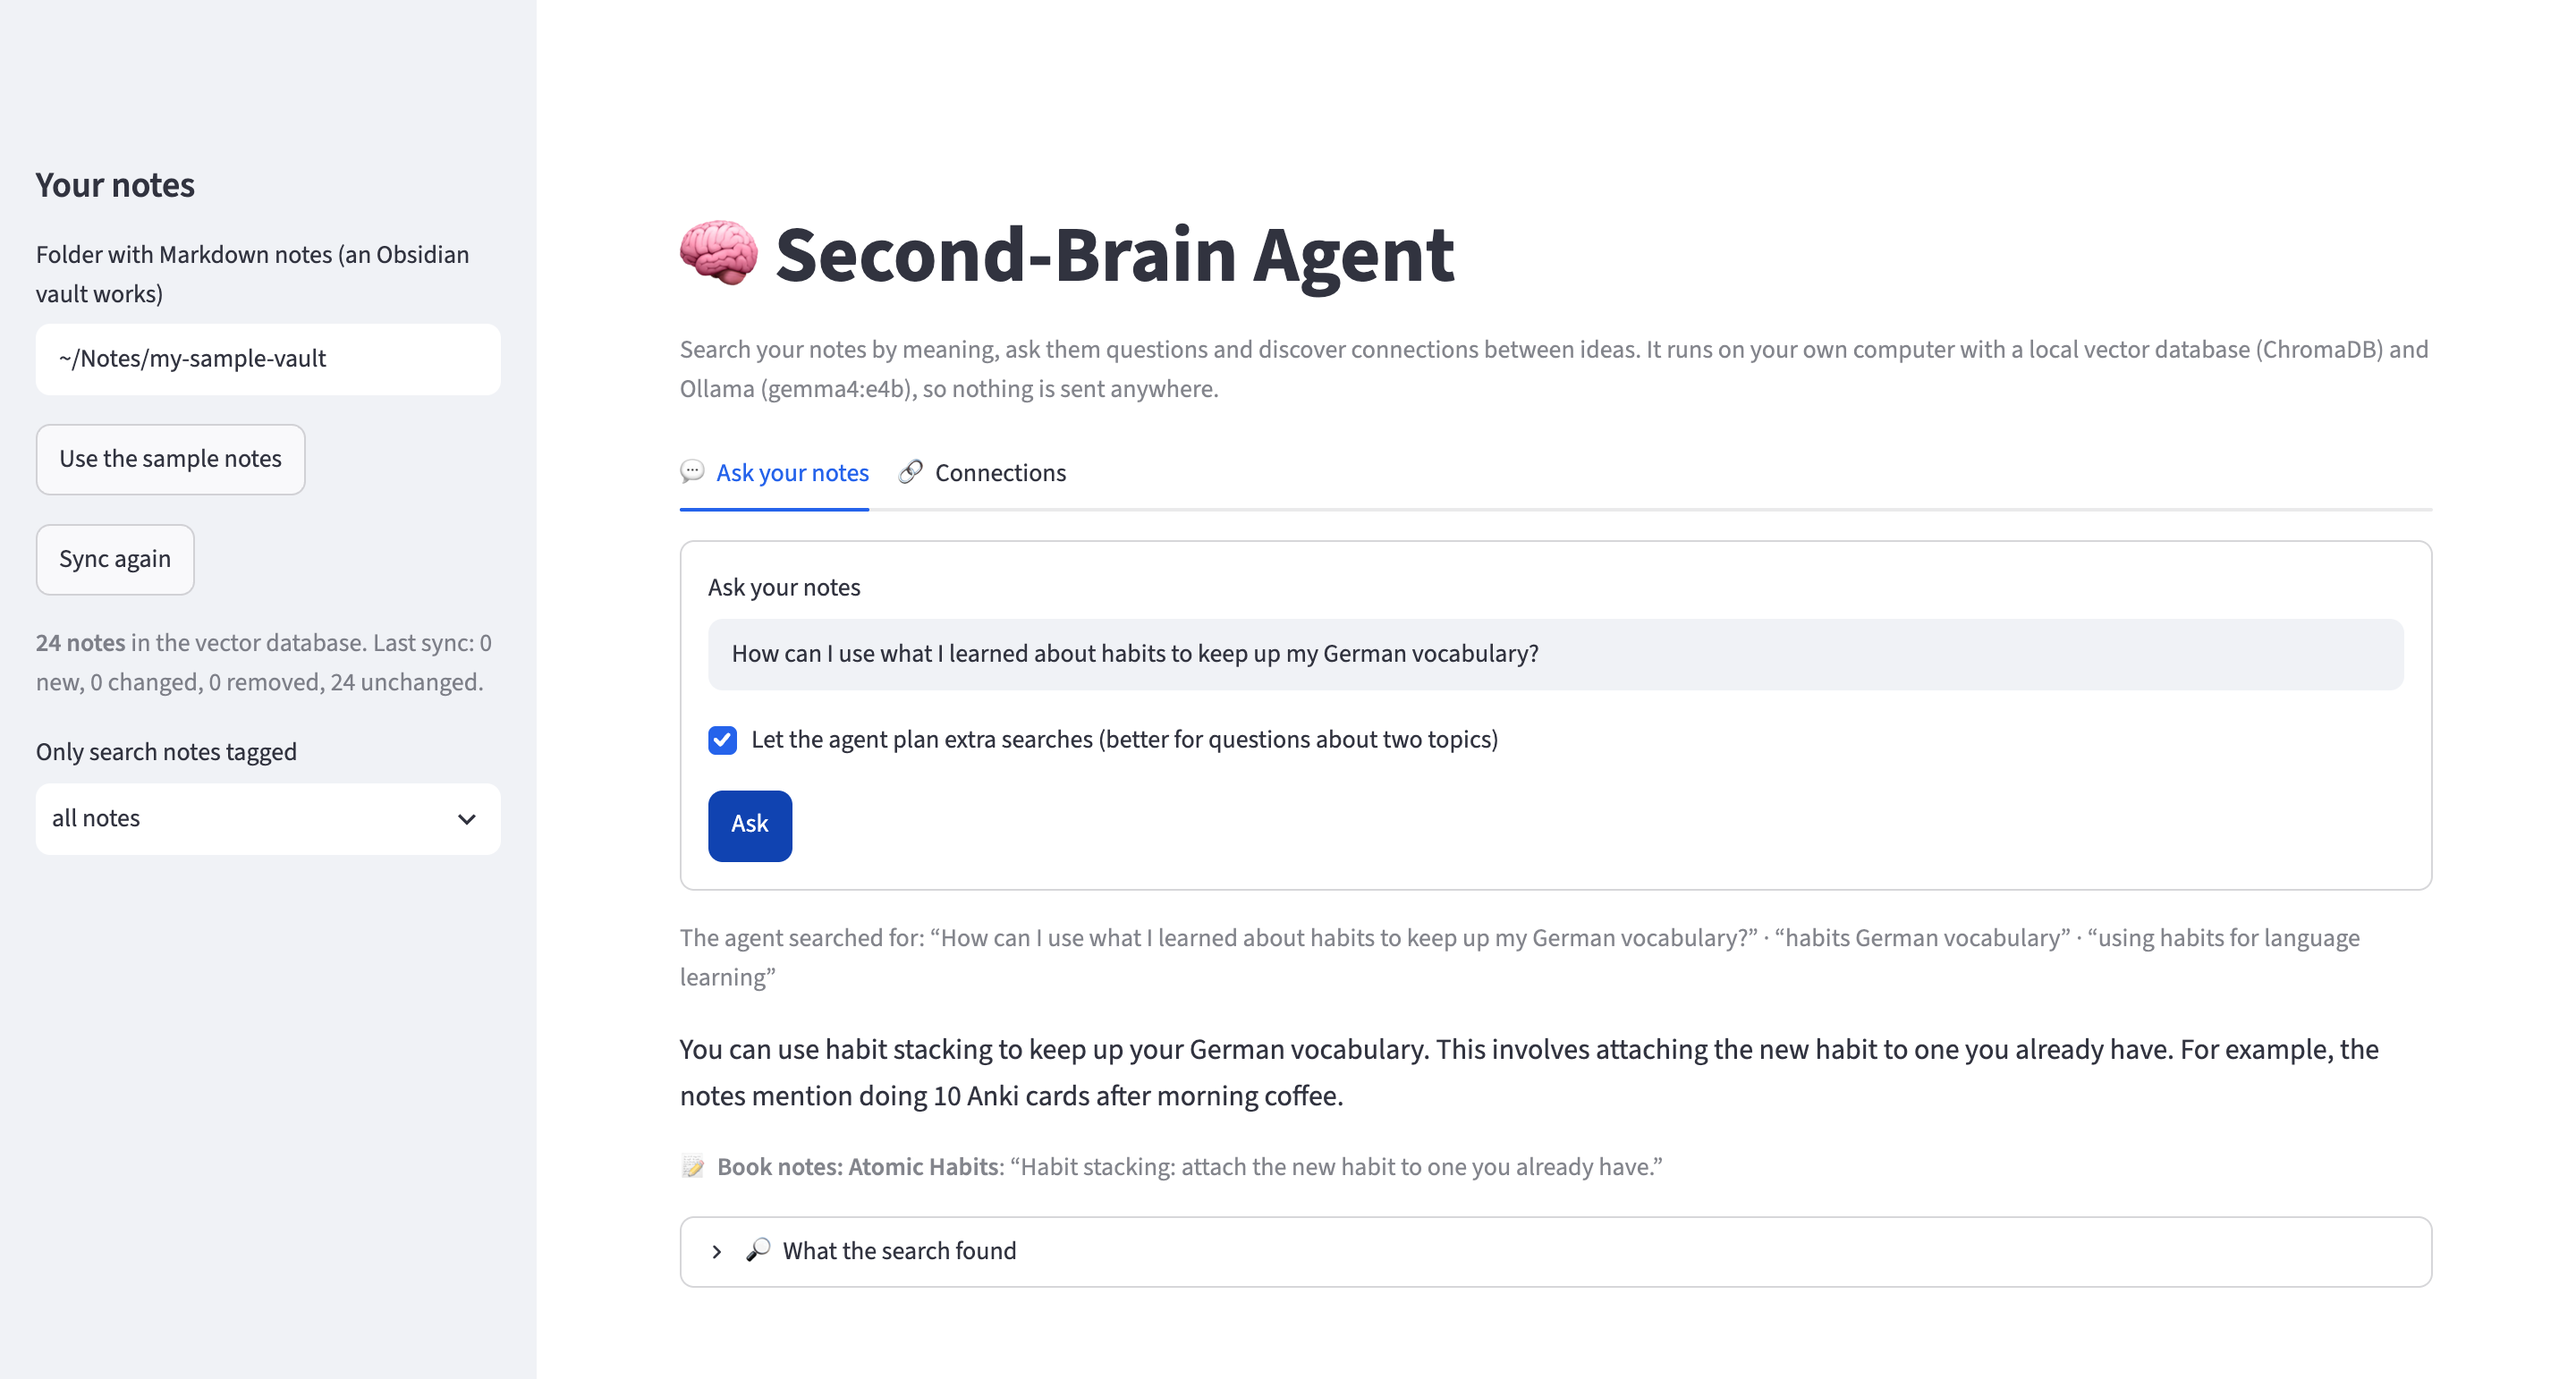
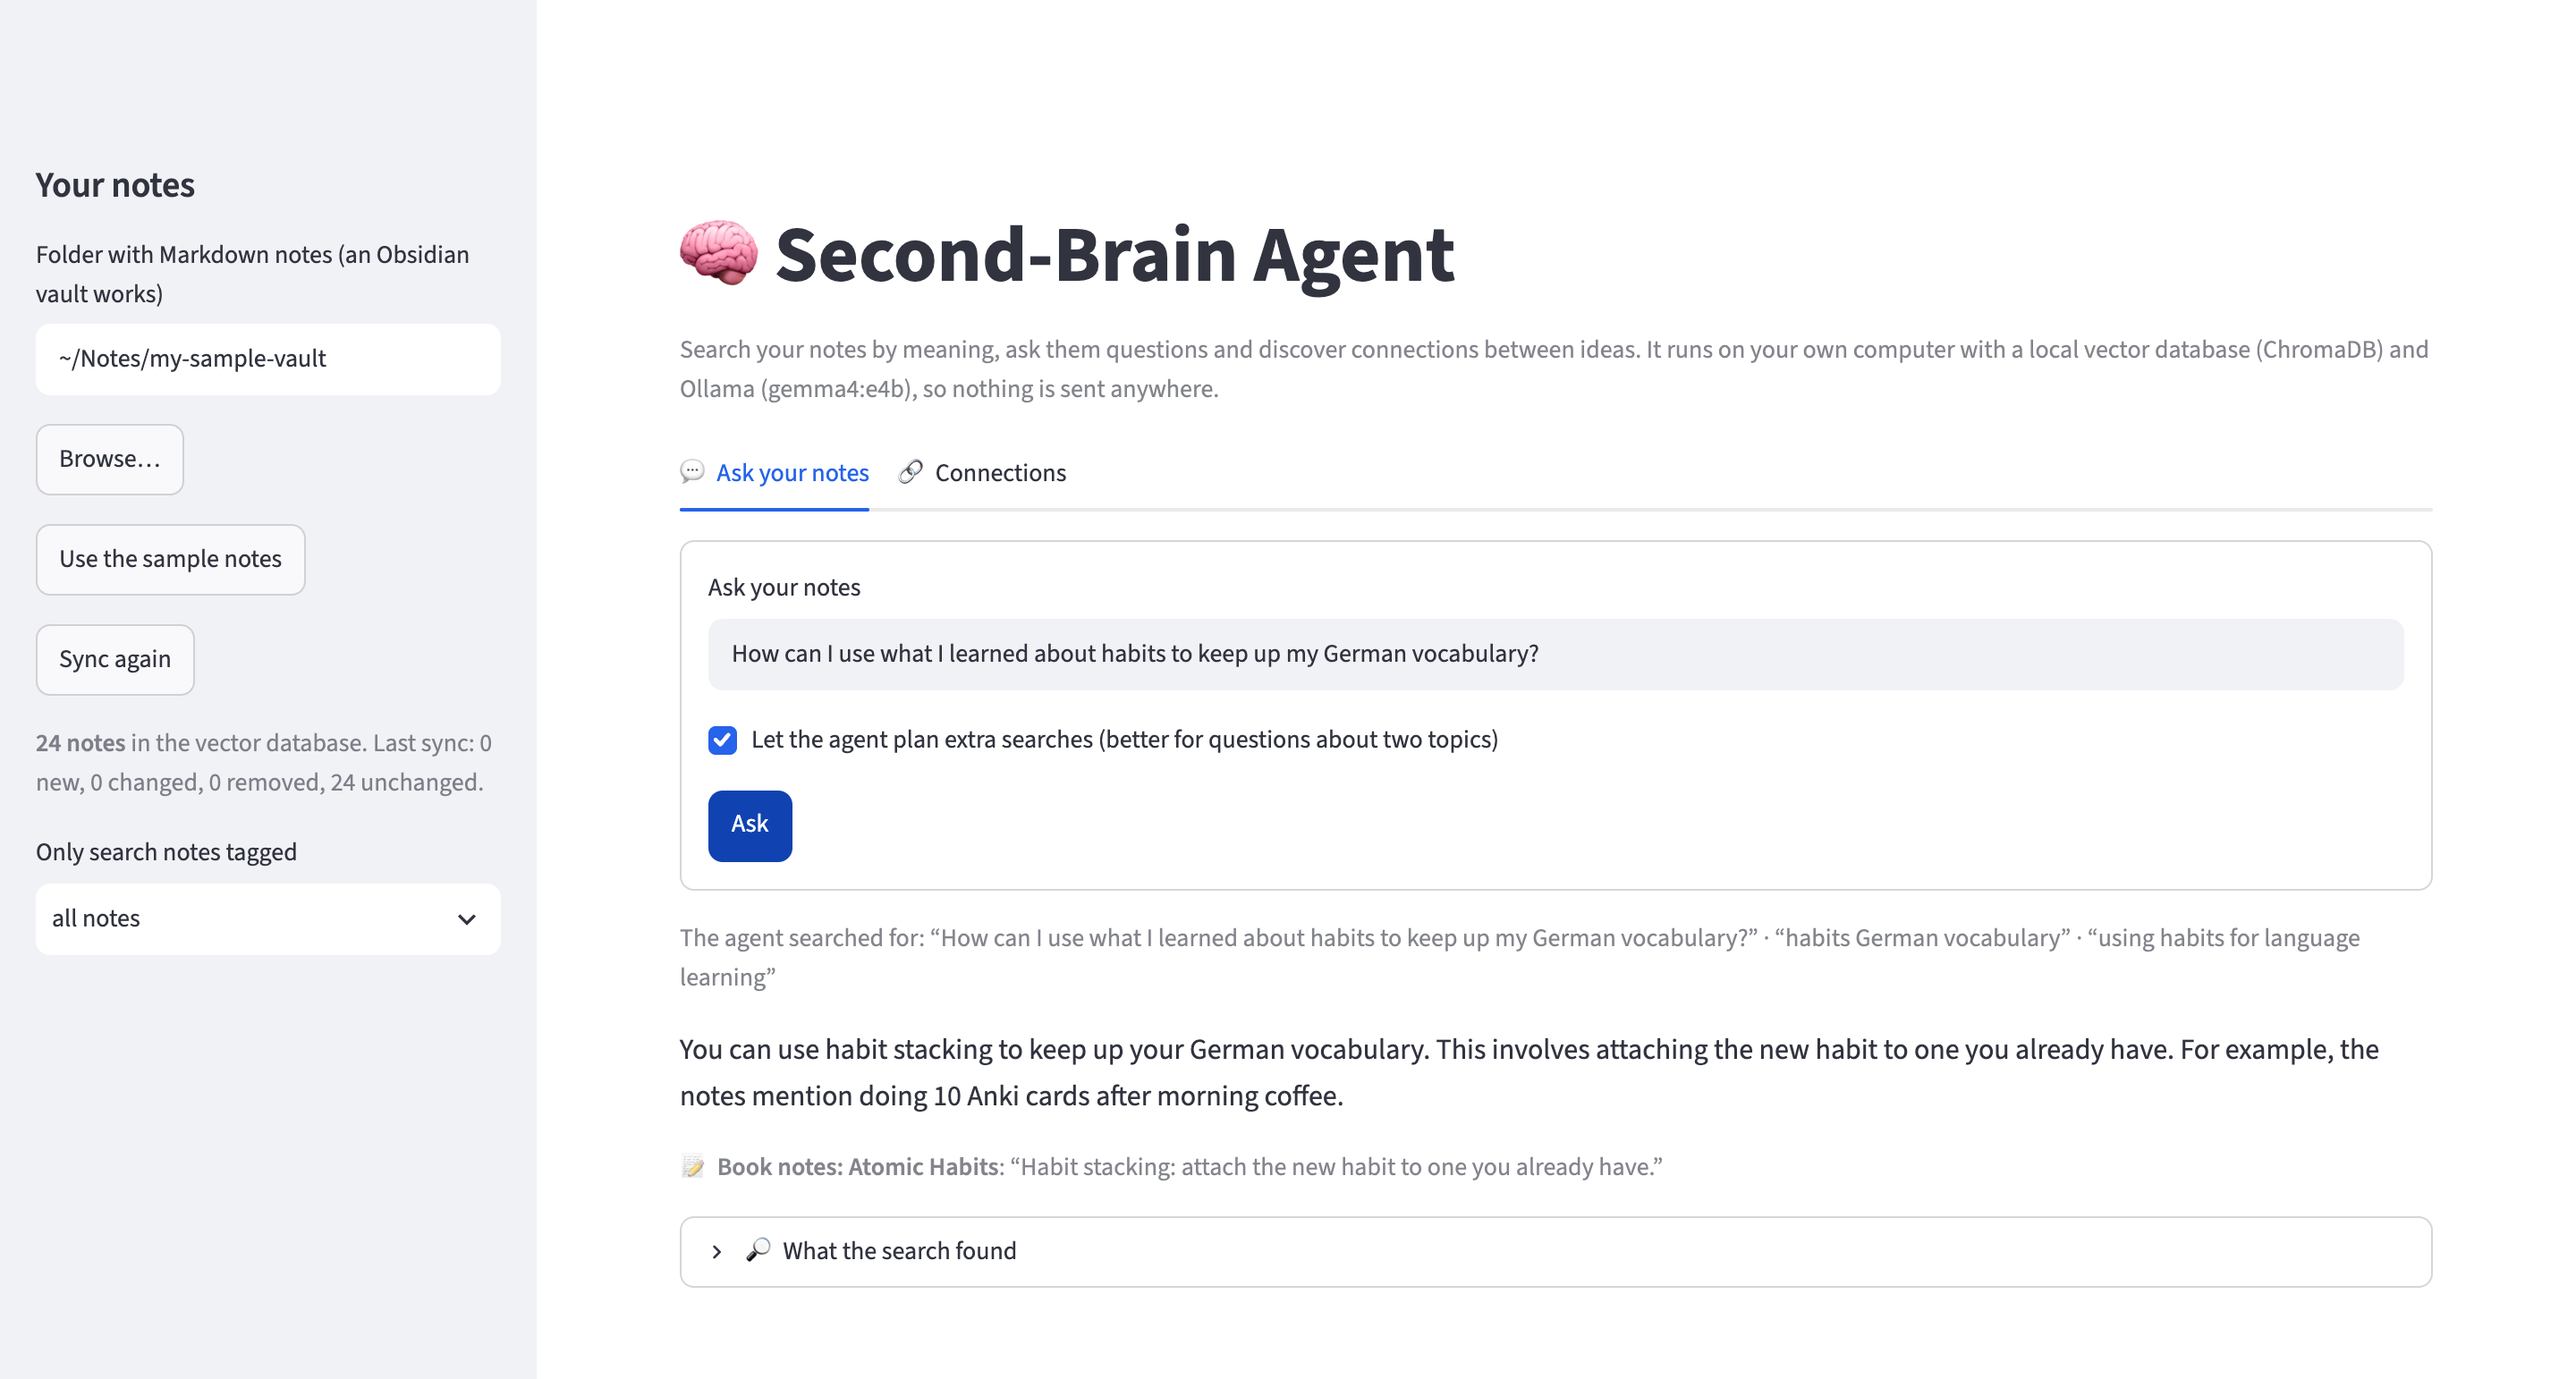
Add a Browse… folder picker to the Second-Brain Agent (project 06)
The notes folder no longer has to be typed: Browse… opens the computer's
own folder window (the Mac's Choose Folder window, Tk's on Windows and
Linux) and fills in the path. Cancel changes nothing, and a problem asks
you to type the path instead. It picks a folder, not uploaded copies,
because the agent adds [[links]] to your real notes.

6 new fast tests (36 in total), new README screenshots taken with the
real app and model, and the README updated to match.

diff --git a/projects/06-second-brain/tests/test_brain.py b/projects/06-second-brain/tests/test_brain.py
@@ -8,6 +8,7 @@ The real models are tested separately by evaluate.py.
 import hashlib
 import json
 import shutil
+import subprocess
 import sys
 from pathlib import Path
 from types import SimpleNamespace
@@ -114,6 +115,53 @@ def test_vault_reading_skips_hidden_folders_and_other_files(vault):
 def test_missing_folder():
     with pytest.raises(brain.BrainError, match="doesn't exist"):
         brain.read_vault("/no/such/folder")
+
+
+def fake_window(monkeypatch, returncode=0, stdout="", stderr="", error=None):
+    """Stands in for the computer's folder window: records the command, gives back a prepared result."""
+    calls = []
+
+    def run(command, **kwargs):
+        calls.append(command)
+        if error:
+            raise error
+        return subprocess.CompletedProcess(command, returncode, stdout, stderr)
+    monkeypatch.setattr(brain.subprocess, "run", run)
+    return calls
+
+
+def test_browse_on_a_mac_opens_the_folder_window_where_you_are(monkeypatch, vault):
+    monkeypatch.setattr(brain.sys, "platform", "darwin")
+    calls = fake_window(monkeypatch, stdout="/Users/me/Notes/\n")
+    assert brain.pick_folder(vault) == "/Users/me/Notes"
+    assert calls[0][0] == "osascript" and calls[0][-1] == str(vault)
+
+
+def test_browse_cancel_and_problems(monkeypatch):
+    monkeypatch.setattr(brain.sys, "platform", "darwin")
+    calls = fake_window(monkeypatch, returncode=1, stderr="execution error: User canceled. (-128)")
+    assert brain.pick_folder("/no/such/folder") is None
+    assert calls[0][-1] == str(Path.home())  # a folder that doesn't exist starts the window at home
+    fake_window(monkeypatch, returncode=1, stderr="Not authorised to send Apple events.")
+    with pytest.raises(brain.BrainError, match="Type the folder's path instead"):
+        brain.pick_folder()
+    fake_window(monkeypatch, error=FileNotFoundError("osascript"))
+    with pytest.raises(brain.BrainError, match="couldn't be opened"):
+        brain.pick_folder()
+
+
+def test_browse_on_windows_and_linux_uses_tk_in_its_own_process(monkeypatch):
+    monkeypatch.setattr(brain.sys, "platform", "linux")
+    calls = fake_window(monkeypatch, stdout="\n")  # Tk prints an empty line when you cancel
+    assert brain.pick_folder() is None
+    assert calls[0][:2] == [sys.executable, "-c"] and "askdirectory" in calls[0][2]
+
+
+@pytest.mark.skipif(not shutil.which("osacompile"), reason="needs macOS")
+def test_the_mac_folder_window_script_is_valid_applescript(tmp_path):
+    lines = [a for line in brain.MAC_PICKER for a in ("-e", line)]
+    done = subprocess.run(["osacompile", "-o", str(tmp_path / "picker.scpt"), *lines], capture_output=True, text=True)
+    assert done.returncode == 0, done.stderr
 
 
 def test_short_notes_stay_whole_and_long_ones_are_cut():

diff --git a/projects/06-second-brain/brain.py b/projects/06-second-brain/brain.py
@@ -25,6 +25,7 @@ import argparse
 import hashlib
 import os
 import re
+import subprocess
 import sys
 import unicodedata
 from dataclasses import dataclass, field
@@ -135,6 +136,38 @@ def read_vault(folder):
         if file.suffix.lower() in NOTE_TYPES and file.is_file() and not any(p.startswith(".") for p in relative.parts):
             notes[relative.as_posix()] = parse_note(relative.as_posix(), file.read_text(errors="replace"))
     return notes
+
+
+FOLDER_PROMPT = "Choose the folder with your notes"
+MAC_PICKER = ["on run argv", "activate",  # activate brings the window in front of the browser
+              f'POSIX path of (choose folder with prompt "{FOLDER_PROMPT}" default location (POSIX file (item 1 of argv)))',
+              "end run"]
+TK_PICKER = f"""import sys, tkinter, tkinter.filedialog
+root = tkinter.Tk(); root.withdraw(); root.attributes("-topmost", True)
+print(tkinter.filedialog.askdirectory(initialdir=sys.argv[1], title="{FOLDER_PROMPT}", mustexist=True))"""
+
+
+def pick_folder(start=None):
+    """Open the computer's own "choose a folder" window. Returns the folder, or None if you cancel.
+    The web page only runs on this computer (server.address = localhost), so the window opens on your screen."""
+    start = Path(start).expanduser() if start else Path.home()
+    if not start.is_dir():
+        start = Path.home()
+    if sys.platform == "darwin":
+        command = ["osascript", *(a for line in MAC_PICKER for a in ("-e", line)), str(start)]
+    else:  # Windows and Linux: Tk's folder window, in its own process because Tk must run on a main thread
+        command = [sys.executable, "-c", TK_PICKER, str(start)]
+    problem = "Your computer's folder window couldn't be opened. Type the folder's path instead."
+    try:
+        done = subprocess.run(command, capture_output=True, text=True)
+    except OSError as e:
+        raise BrainError(problem) from e
+    if done.returncode != 0:
+        if "-128" in done.stderr:  # macOS: you clicked Cancel
+            return None
+        raise BrainError(f"{problem}\n\n{done.stderr.strip()}")
+    picked = done.stdout.strip()
+    return str(Path(picked)) if picked else None
 
 
 def chunks(note, size=CHUNK_CHARS):

diff --git a/projects/06-second-brain/tests/test_app.py b/projects/06-second-brain/tests/test_app.py
@@ -1,4 +1,5 @@
 """Tests for the web page, using Streamlit's built-in AppTest (no browser, fake AI, real ChromaDB in a temp folder)."""
+import shutil
 import sys
 from pathlib import Path
 
@@ -22,16 +23,43 @@ def fake(monkeypatch, tmp_path):
     return client
 
 
+def click(at, label):
+    next(b for b in at.sidebar.button if b.label == label).click().run()
+
+
 def with_samples():
     at = AppTest.from_file(APP, default_timeout=60).run()
-    at.sidebar.button[0].click().run()  # "Use the sample notes"
+    click(at, "Use the sample notes")
     assert not at.exception and not at.error
     return at
 
 
 def test_start_explains_what_to_do(fake):
     at = AppTest.from_file(APP, default_timeout=60).run()
-    assert "Choose the folder with your notes" in at.info[0].value
+    assert "Choose the folder with your notes" in at.info[0].value and "Browse…" in at.info[0].value
+
+
+def test_browse_fills_in_the_folder_you_pick(fake, monkeypatch, tmp_path):
+    folder = tmp_path / "My Notes"
+    shutil.copytree(brain.SAMPLE_VAULT, folder)
+    monkeypatch.setattr(brain, "pick_folder", lambda start=None: str(folder))
+    at = AppTest.from_file(APP, default_timeout=60).run()
+    click(at, "Browse…")
+    assert at.sidebar.text_input[0].value == str(folder)
+    assert "**24 notes** in the vector database" in at.sidebar.caption[0].value
+
+
+def test_browse_cancelled_or_not_possible(fake, monkeypatch):
+    monkeypatch.setattr(brain, "pick_folder", lambda start=None: None)
+    at = AppTest.from_file(APP, default_timeout=60).run()
+    click(at, "Browse…")
+    assert at.sidebar.text_input[0].value == "" and "Choose the folder" in at.info[0].value and not at.error
+
+    def no_window(start=None):
+        raise brain.BrainError("Your computer's folder window couldn't be opened. Type the folder's path instead.")
+    monkeypatch.setattr(brain, "pick_folder", no_window)
+    click(at, "Browse…")
+    assert "Type the folder's path instead" in at.sidebar.error[0].value
 
 
 def test_sample_notes_are_copied_and_synced(fake):

diff --git a/projects/06-second-brain/app.py b/projects/06-second-brain/app.py
@@ -26,6 +26,17 @@ def use_samples():
     st.session_state.vault = str(brain.SAMPLE_COPY)
 
 
+def browse():
+    """Fill in the folder you pick in your computer's own folder window. Cancel leaves everything as it was."""
+    try:
+        picked = brain.pick_folder(st.session_state.get("vault"))
+    except brain.BrainError as e:
+        st.session_state.browse_error = str(e)
+        return
+    if picked:
+        st.session_state.vault = picked
+
+
 def open_brain(folder):
     """One Brain per notes folder, synced when it's opened. Unchanged notes cost nothing."""
     if st.session_state.get("brain_folder") != folder:
@@ -124,10 +135,14 @@ with st.sidebar:
     st.header("Your notes")
     folder = st.text_input("Folder with Markdown notes (an Obsidian vault works)", key="vault",
                            placeholder="/Users/you/Documents/Notes")
+    st.button("Browse…", on_click=browse, help="Pick the folder in your computer's own folder window")
+    if "browse_error" in st.session_state:
+        st.error(st.session_state.pop("browse_error"))
     st.button("Use the sample notes", on_click=use_samples)
 
 if not folder:
-    st.info("Choose the folder with your notes on the left, or try the sample notes first.")
+    st.info("Choose the folder with your notes on the left: click **Browse…** or type its path. "
+            "Or try the sample notes first.")
     st.stop()
 
 try:

diff --git a/projects/06-second-brain/README.md b/projects/06-second-brain/README.md
@@ -8,7 +8,7 @@
 [![ChromaDB](https://img.shields.io/badge/vector_DB-ChromaDB-E11D74?style=for-the-badge)](#-how-it-works)
 [![Ollama](https://img.shields.io/badge/AI-Ollama_·_local-0F172A?style=for-the-badge&logo=ollama&logoColor=white)](#-private-by-design)
 [![Cost](https://img.shields.io/badge/cost-€0-22C55E?style=for-the-badge)](#-quick-start)
-[![Tests](https://img.shields.io/badge/tests-30_fast_%2B_9_AI_checks-16A34A?style=for-the-badge)](#-how-it-was-tested)
+[![Tests](https://img.shields.io/badge/tests-36_fast_%2B_9_AI_checks-16A34A?style=for-the-badge)](#-how-it-was-tested)
 
 ### What did I already write about this? · How do my ideas fit together? · Which notes belong together?
 
@@ -73,7 +73,7 @@ Ollama and ChromaDB run locally. ChromaDB's anonymous usage statistics are switc
 
 <p align="center">
   <img src="docs/images/ask.png" alt="Ask your notes: the question about habits and German vocabulary, the three searches the agent ran, the answer about habit stacking and the quote from 'Book notes: Atomic Habits'" width="88%">
-  <br/><sub><b>Ask your notes.</b> The agent searched three times (the question plus two topics it planned), then answered with a checked quote.</sub>
+  <br/><sub><b>Ask your notes.</b> The agent searched three times (the question plus two topics it planned), then answered with a checked quote. On the left, <b>Browse…</b> opens your computer's folder window to pick your notes.</sub>
 </p>
 
 <p align="center">
@@ -109,7 +109,7 @@ cd projects/06-second-brain
 uv run streamlit run app.py
 ```
 
-Open **http://localhost:8501**. Click **Use the sample notes** to try it, or type the path of your own notes folder on the left.
+Open **http://localhost:8501**. Click **Use the sample notes** to try it, or click **Browse…** on the left to pick your own notes folder in your computer's usual folder window. You can also type its path.
 
 <details>
 <summary><b>⌨ Use it from the command line instead</b></summary>
@@ -171,7 +171,7 @@ uv run brain.py ask "What did I write about Scrum?" --vault ~/Documents/MyVault 
 
 ## 🧪 How it was tested
 
-**1. Fast tests (30 checks, about 2 seconds, no AI needed)**
+**1. Fast tests (36 checks, about 2 seconds, no AI needed)**
 
 ```bash
 uv run pytest
@@ -184,9 +184,10 @@ A fake Ollama stands in for the AI (its fake embeddings are built from the words
 - **Search and asking:** the right note comes first, tag filters work, the agent's searches are merged without repeats, made-up quotes are dropped, "not found" works, and a stuck model is stopped and retried
 - **Connections:** quotes from both notes are checked, swapped quotes are put back, "not connected" is allowed, and links count in both directions and with aliases
 - **Adding links:** only appends, reuses an existing "## Related" section, never adds a link twice or a link to the note itself
-- **The web page:** Streamlit's `AppTest` copies the sample notes, asks a question, finds connections and adds a link
+- **Browse…:** opens the Mac's own folder window (Tk's on Windows and Linux) where you already are, Cancel changes nothing, a problem tells you to type the path, and the Mac script is valid AppleScript
+- **The web page:** Streamlit's `AppTest` picks a folder with Browse… (with a fake folder window), copies the sample notes, asks a question, finds connections and adds a link
 
-I also broke the code on purpose (not putting swapped quotes back, and not removing a changed note's old chunks before adding new ones) to make sure the tests notice. They did.
+I also broke the code on purpose (not putting swapped quotes back, not removing a changed note's old chunks before adding new ones, treating Cancel as an error, and not filling in the folder you picked) to make sure the tests notice. They did.
 
 **2. Quality test with the real AI (about 2 minutes)**
 
